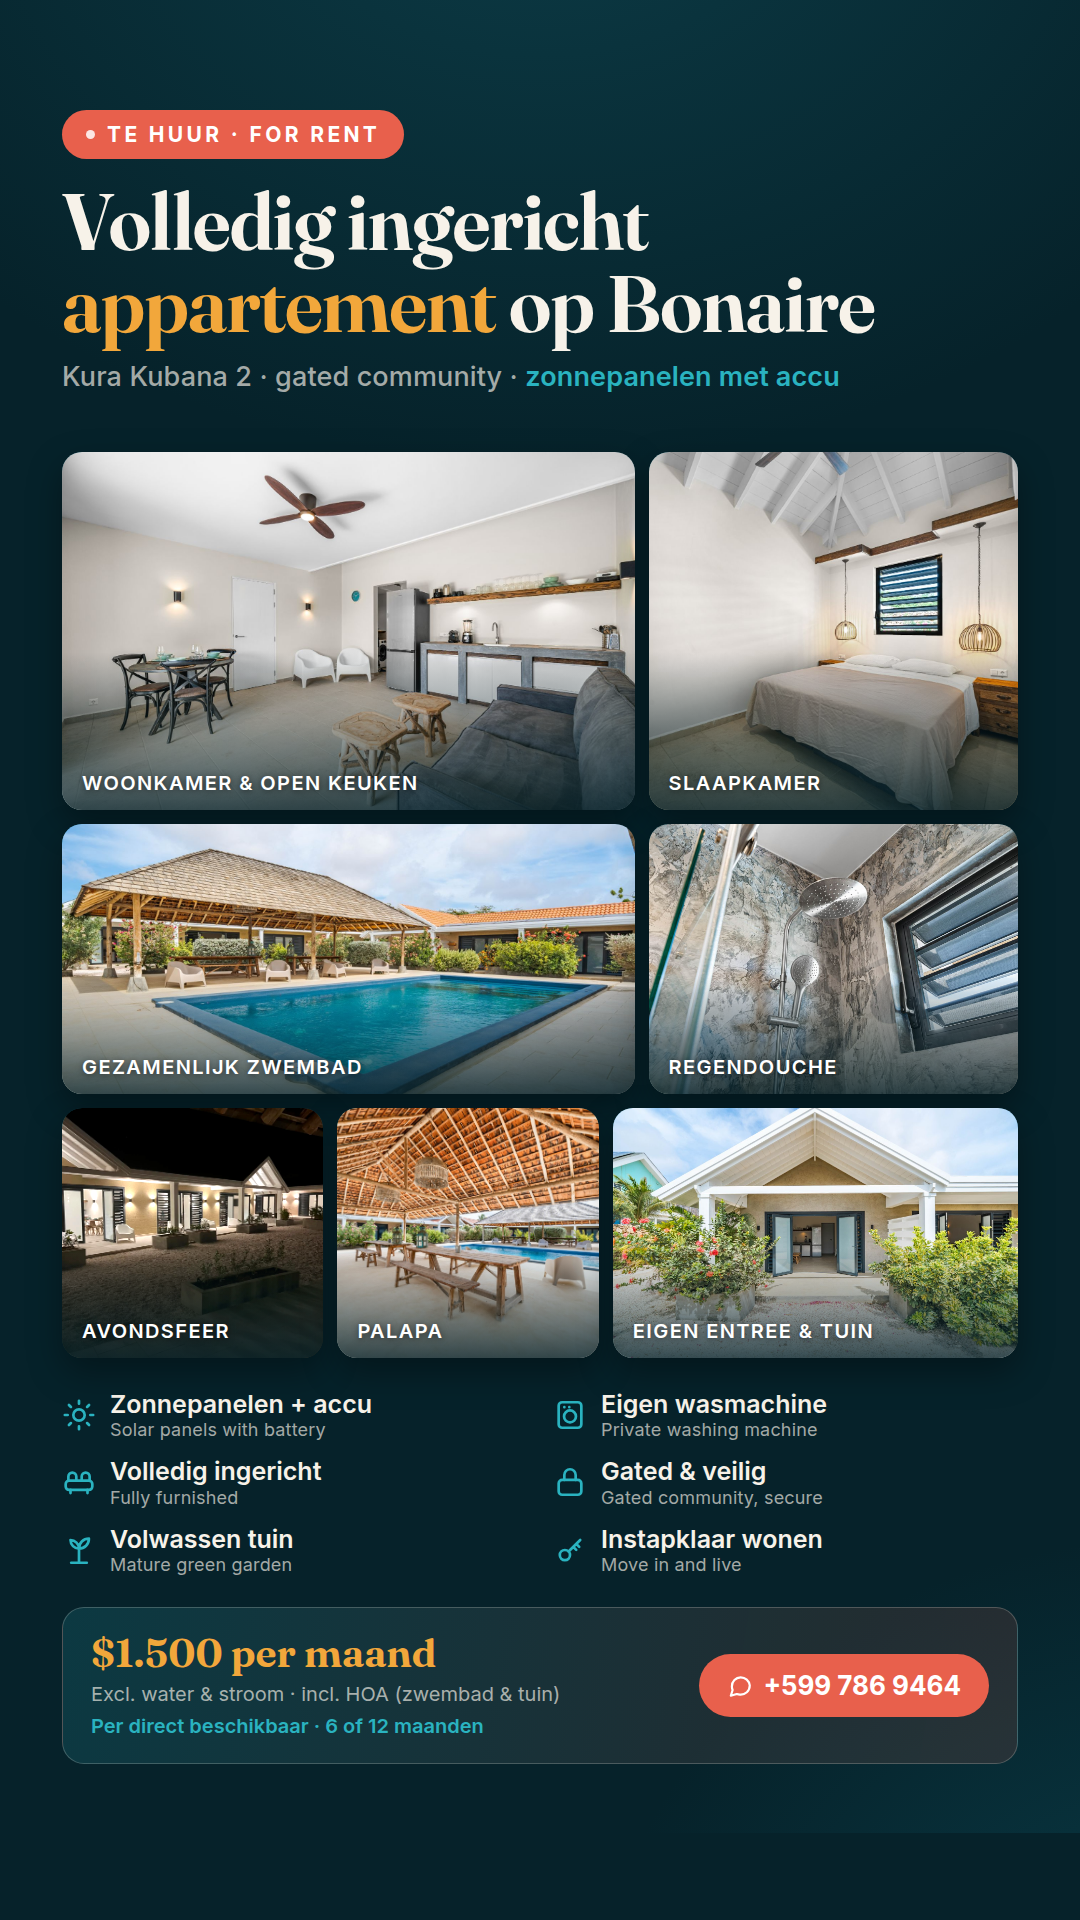
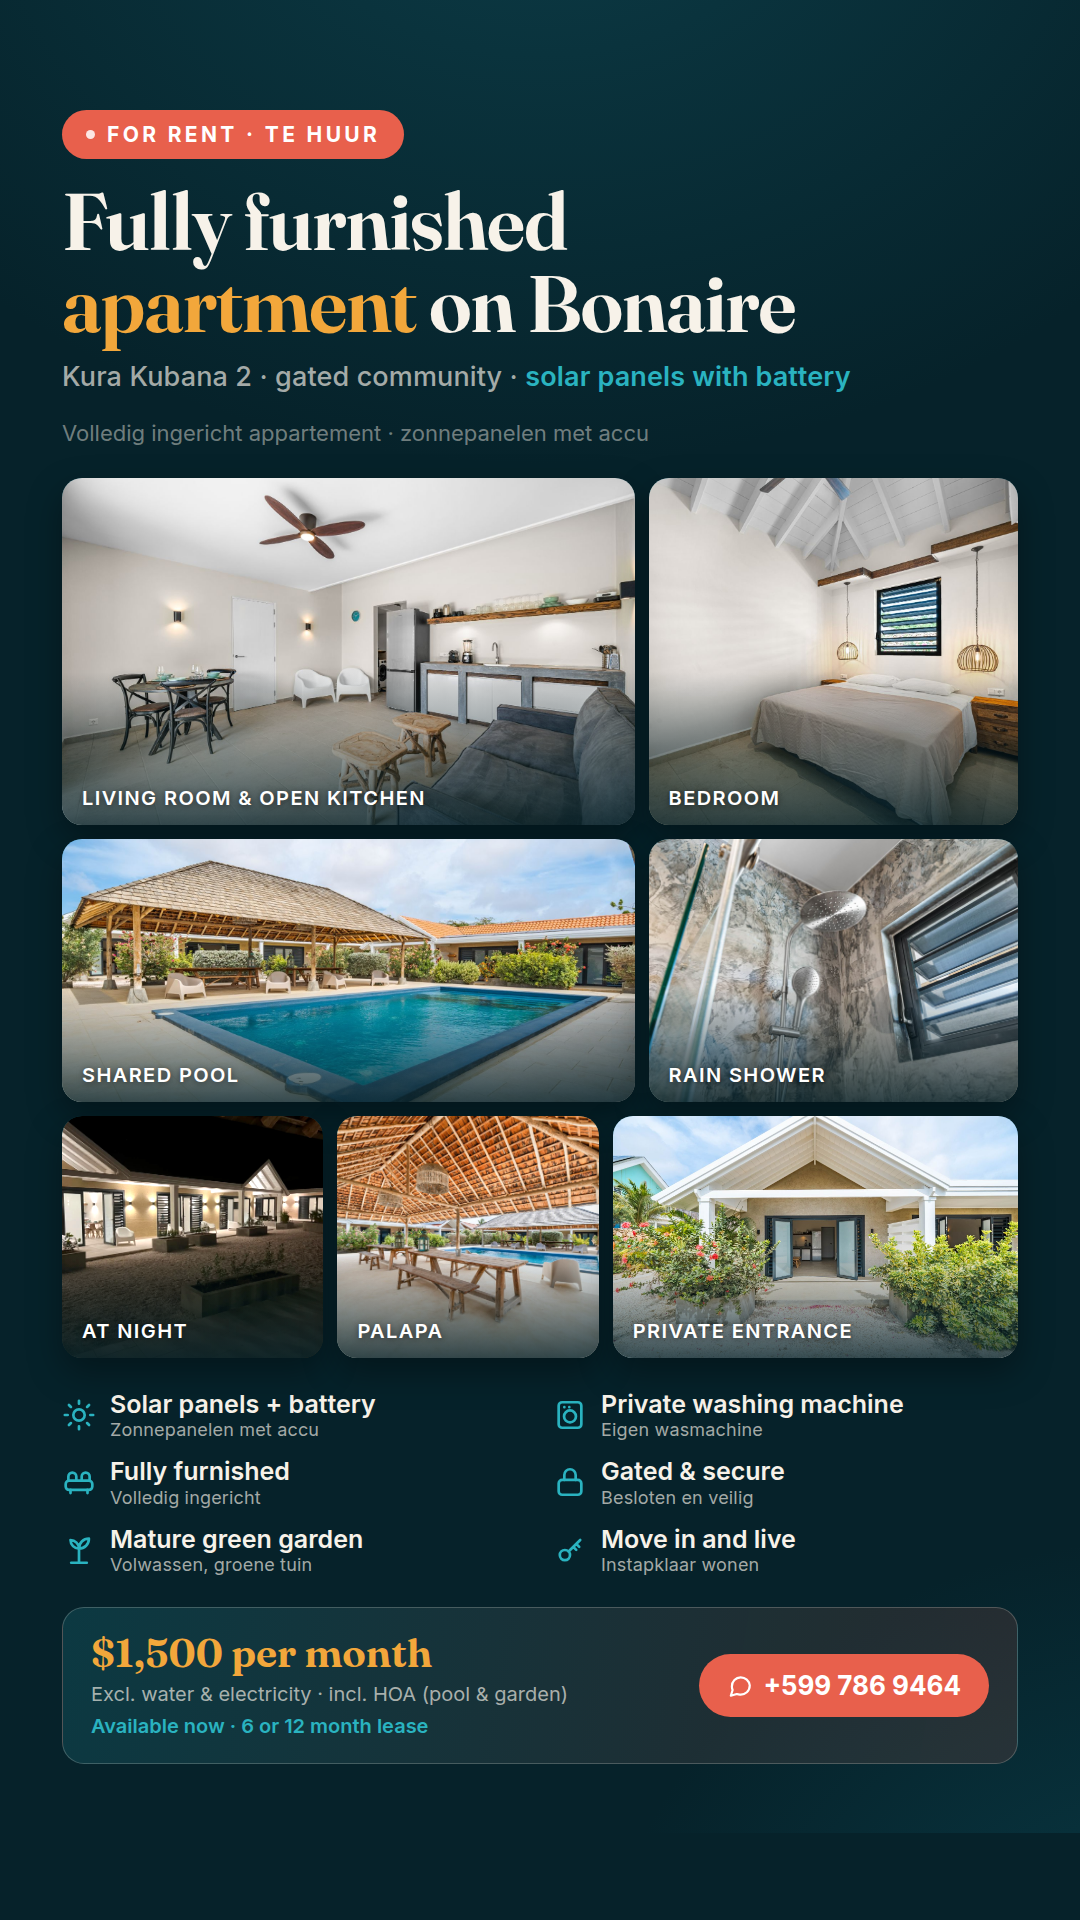
marketing: Engels als hoofdtaal, Nederlands als tweede
De doelgroep op Bonaire is voor een groot deel Engelstalig, dus die tekst
komt nu eerst; Nederlands blijft volwaardig aanwezig, een niveau kleiner.

Collage:
- kop, bijschriften bij de foto's en de prijsbalk in het Engels
- onder de Engelse subkop een Nederlandse regel in gedempt grijs
- featurelijst omgedraaid: Engels groot, Nederlands klein eronder
- bijschriften ingekort waar de Engelse tekst breder werd dan de tegel
  ("Private entrance" in plaats van de volledige regel)

Postteksten: het Engelse blok staat nu boven het Nederlandse, ook in de
korte groepsversie en in het standaard comment-antwoord. Hashtags herordend.

README: taalvolgorde vastgelegd zodat latere aanvullingen die aanhouden.

Claude-Session: https://claude.ai/code/session_01KcqzwLz4Kogusytwj4wSC2

Changed region(s): [[0.0306, 0.0625, 0.9472, 0.8438], [0.0917, 0.6875, 0.3361, 0.8438], [0.0917, 0.8438, 0.5194, 0.9062]]

diff --git a/marketing/appartement/collage.html b/marketing/appartement/collage.html
@@ -35,6 +35,7 @@
   h1 em{font-style:normal;color:var(--sun)}
   .sub{margin-top:16px;font-size:27px;font-weight:500;color:var(--soft);letter-spacing:.005em}
   .sub b{color:var(--turq);font-weight:600}
+  .sub-nl{margin:9px 0 0;font-size:22px;font-weight:400;color:rgba(247,242,233,.45)}
 
   /* ---------- photo mosaic ---------- */
   .mosaic{flex:1 1 auto;min-height:0;display:flex;flex-direction:column;gap:14px}
@@ -78,36 +79,37 @@
 <div class="page">
 
   <header>
-    <span class="eyebrow"><span class="dot"></span>Te huur · For rent</span>
-    <h1>Volledig ingericht<br><em>appartement</em> op Bonaire</h1>
-    <p class="sub">Kura Kubana 2 · gated community · <b>zonnepanelen met accu</b></p>
+    <span class="eyebrow"><span class="dot"></span>For rent · Te huur</span>
+    <h1>Fully furnished<br><em>apartment</em> on Bonaire</h1>
+    <p class="sub">Kura Kubana 2 · gated community · <b>solar panels with battery</b></p>
+    <p class="sub-nl">Volledig ingericht appartement · zonnepanelen met accu</p>
   </header>
 
   <div class="mosaic">
     <div class="row r1">
       <div class="tile wide">
         <img src="photos/p1-woonkamer-keuken.jpg" alt="Woonkamer met open keuken" style="object-position:50% 58%">
-        <span class="cap">Woonkamer &amp; open keuken</span>
+        <span class="cap">Living room &amp; open kitchen</span>
       </div>
       <div class="tile">
         <img src="photos/p6-slaapkamer.jpg" alt="Slaapkamer met tweepersoonsbed" style="object-position:68% 52%">
-        <span class="cap">Slaapkamer</span>
+        <span class="cap">Bedroom</span>
       </div>
     </div>
     <div class="row r2">
       <div class="tile wide">
         <img src="photos/p2-zwembad.jpg" alt="Gezamenlijk zwembad">
-        <span class="cap">Gezamenlijk zwembad</span>
+        <span class="cap">Shared pool</span>
       </div>
       <div class="tile">
         <img src="photos/p3-badkamer.jpg" alt="Badkamer met regendouche" style="object-position:50% 62%">
-        <span class="cap">Regendouche</span>
+        <span class="cap">Rain shower</span>
       </div>
     </div>
     <div class="row r3">
       <div class="tile">
         <img class="night" src="photos/p7-avond.jpg" alt="Verlichte binnentuin in de avond" style="object-position:50% 58%">
-        <span class="cap">Avondsfeer</span>
+        <span class="cap">At night</span>
       </div>
       <div class="tile">
         <img src="photos/p4-palapa.jpg" alt="Palapa met lange tafels bij het zwembad">
@@ -115,7 +117,7 @@
       </div>
       <div class="tile wide">
         <img src="photos/p5-entree-tuin.jpg" alt="Eigen entree met terras en groene tuin">
-        <span class="cap">Eigen entree &amp; tuin</span>
+        <span class="cap">Private entrance</span>
       </div>
     </div>
   </div>
@@ -123,35 +125,35 @@
   <div class="features">
     <div class="feat">
       <svg viewBox="0 0 24 24"><circle cx="12" cy="12" r="4"/><path d="M12 2v2M12 20v2M2 12h2M20 12h2M4.9 4.9l1.4 1.4M17.7 17.7l1.4 1.4M19.1 4.9l-1.4 1.4M6.3 17.7l-1.4 1.4"/></svg>
-      <div><span class="nl">Zonnepanelen + accu</span><span class="en">Solar panels with battery</span></div>
+      <div><span class="nl">Solar panels + battery</span><span class="en">Zonnepanelen met accu</span></div>
     </div>
     <div class="feat">
       <svg viewBox="0 0 24 24"><rect x="4" y="3" width="16" height="18" rx="2.5"/><circle cx="12" cy="13" r="4.2"/><path d="M8 6.5h.01M11.5 6.5h.01"/></svg>
-      <div><span class="nl">Eigen wasmachine</span><span class="en">Private washing machine</span></div>
+      <div><span class="nl">Private washing machine</span><span class="en">Eigen wasmachine</span></div>
     </div>
     <div class="feat">
       <svg viewBox="0 0 24 24"><path d="M4.5 11V8.2a2.8 2.8 0 0 1 5.6 0V11M13.9 11V8.2a2.8 2.8 0 0 1 5.6 0V11"/><rect x="2.6" y="11" width="18.8" height="6.6" rx="2.4"/><path d="M6 17.6v2.2M18 17.6v2.2"/></svg>
-      <div><span class="nl">Volledig ingericht</span><span class="en">Fully furnished</span></div>
+      <div><span class="nl">Fully furnished</span><span class="en">Volledig ingericht</span></div>
     </div>
     <div class="feat">
       <svg viewBox="0 0 24 24"><rect x="4" y="10.5" width="16" height="10.5" rx="2.5"/><path d="M8 10.5V7a4 4 0 0 1 8 0v3.5"/></svg>
-      <div><span class="nl">Gated &amp; veilig</span><span class="en">Gated community, secure</span></div>
+      <div><span class="nl">Gated &amp; secure</span><span class="en">Besloten en veilig</span></div>
     </div>
     <div class="feat">
       <svg viewBox="0 0 24 24"><path d="M12 21V11M12 11c0-4 3-7 7-7 0 4-3 7-7 7Zm0 0C12 7.7 9.3 5 6 5c0 3.3 2.7 6 6 6Z"/><path d="M6.5 21h11"/></svg>
-      <div><span class="nl">Volwassen tuin</span><span class="en">Mature green garden</span></div>
+      <div><span class="nl">Mature green garden</span><span class="en">Volwassen, groene tuin</span></div>
     </div>
     <div class="feat">
       <svg viewBox="0 0 24 24"><circle cx="8.4" cy="15.6" r="3.6"/><path d="M11 13.1 19.2 4.9M16.4 7.7l2.1 2.1M14.3 9.8l2.1 2.1"/></svg>
-      <div><span class="nl">Instapklaar wonen</span><span class="en">Move in and live</span></div>
+      <div><span class="nl">Move in and live</span><span class="en">Instapklaar wonen</span></div>
     </div>
   </div>
 
   <div class="cta">
     <div class="who">
-      <div class="l1">$1.500 per maand</div>
-      <div class="l2">Excl. water &amp; stroom · incl. HOA (zwembad &amp; tuin)</div>
-      <div class="l3">Per direct beschikbaar · 6 of 12 maanden</div>
+      <div class="l1">$1,500 per month</div>
+      <div class="l2">Excl. water &amp; electricity · incl. HOA (pool &amp; garden)</div>
+      <div class="l3">Available now · 6 or 12 month lease</div>
     </div>
     <div class="pill">
       <svg viewBox="0 0 24 24"><path d="M21 11.5a8.4 8.4 0 0 1-9.1 8.4c-1 0-2-.2-2.9-.5L3.5 21l1.7-5.3a8.3 8.3 0 0 1-.7-3.3A8.4 8.4 0 0 1 12.6 4 8.4 8.4 0 0 1 21 11.5Z"/></svg>

diff --git a/marketing/appartement/facebook-post.md b/marketing/appartement/facebook-post.md
@@ -1,34 +1,14 @@
-# Facebook-post — appartement te huur (langere termijn)
+# Facebook post — apartment for rent (long term) · Facebook-post appartement te huur
 
-> De post is compleet en kan zo geplaatst worden. Alleen in versie C staat nog `[naam]`, voor als je
-> je reacties met je eigen naam wilt ondertekenen.
-> Plaats `collage-9x16.png` als afbeelding en zet deze tekst in het bijschrift. Reacties met "info"
-> beantwoorden via PB werkt op Bonaire beter dan de prijs in de comments herhalen.
-
----
-
-## Versie A — Nederlands + Engels (aanbevolen, één post)
-
-🌴 **TE HUUR — volledig ingericht appartement in een gated community op Bonaire**
-
-Instappen en wonen. Geen meubels sjouwen, geen verrassingen: alles staat er al.
-
-🛋 Ruime woonkamer met open keuken
-🛏 Slaapkamer met eigen badkamer en regendouche
-🧺 Eigen wasmachine
-☀ Zonnepanelen mét accu — lage stroomkosten en gewoon licht als de rest van de wijk zonder zit
-🏊 Gezamenlijk zwembad met palapa en lange tafels
-🌳 Volwassen, groene tuin met een eigen entree en terras — 's avonds sfeervol verlicht
-🔒 Gated community — rustig en veilig
-
-Perfect voor wie voor werk of langere tijd naar Bonaire komt en meteen wil landen.
-
-📍 Kura Kubana 2, Bonaire
-💵 $1.500 per maand — excl. water en stroom, incl. HOA (onderhoud zwembad en tuin)
-📅 Per direct beschikbaar — huurperiode 6 of 12 maanden
-📞 Interesse? Stuur een PB of app +599 786 9464
+> The post is complete and ready to publish. Only version C still has `[name]` in it, in case you want to
+> sign your replies. English comes first, Dutch second — that order matches the audience on Bonaire:
+> expats, Americans and local English speakers see it first, Dutch readers find their own text right below.
+>
+> Post `collage-9x16.png` as the image and use this text as the caption.
 
 ---
+
+## Version A — English + Dutch (recommended, one post)
 
 🌴 **FOR RENT — fully furnished apartment in a gated community on Bonaire**
 
@@ -49,45 +29,67 @@ Ideal if you're moving to Bonaire for work or for a longer stay and want to sett
 📅 Available immediately — 6 or 12 month lease
 📞 Interested? Send a DM or WhatsApp +599 786 9464
 
-#Bonaire #KuraKubana #BonaireLiving #TeHuurBonaire #ForRentBonaire #Kralendijk #HurenOpBonaire #BonaireRental #ExpatBonaire #GatedCommunity #Zonnepanelen #CaribbeanLiving
+---
+
+🌴 **TE HUUR — volledig ingericht appartement in een gated community op Bonaire**
+
+Instappen en wonen. Geen meubels sjouwen, geen verrassingen: alles staat er al.
+
+🛋 Ruime woonkamer met open keuken
+🛏 Slaapkamer met eigen badkamer en regendouche
+🧺 Eigen wasmachine
+☀ Zonnepanelen mét accu — lage stroomkosten en gewoon licht als de rest van de wijk zonder zit
+🏊 Gezamenlijk zwembad met palapa en lange tafels
+🌳 Volwassen, groene tuin met een eigen entree en terras — 's avonds sfeervol verlicht
+🔒 Gated community — rustig en veilig
+
+Perfect voor wie voor werk of langere tijd naar Bonaire komt en meteen wil landen.
+
+📍 Kura Kubana 2, Bonaire
+💵 $1.500 per maand — excl. water en stroom, incl. HOA (onderhoud zwembad en tuin)
+📅 Per direct beschikbaar — huurperiode 6 of 12 maanden
+📞 Interesse? Stuur een PB of app +599 786 9464
+
+#Bonaire #KuraKubana #BonaireLiving #ForRentBonaire #TeHuurBonaire #Kralendijk #BonaireRental #ExpatBonaire #GatedCommunity #SolarPower #CaribbeanLiving
 
 ---
 
-## Versie B — korter, voor in verhuurgroepen
+## Version B — shorter, for rental groups
 
-☀ Volledig ingericht appartement te huur op Bonaire — gated community, gezamenlijk zwembad met palapa,
-volwassen tuin. Woonkamer met open keuken, slaapkamer, eigen badkamer met regendouche, eigen wasmachine
-en zonnepanelen mét accu (dus lage stroomkosten en geen gedoe bij stroomuitval). Instapklaar: je hoeft
-alleen je koffer neer te zetten.
+☀ Fully furnished apartment for rent on Bonaire — gated community, shared pool with palapa, mature garden.
+Living room with open kitchen, bedroom, private bathroom with rain shower, own washing machine and solar
+panels with battery (so low electricity bills and no trouble during outages). Move in with nothing but
+your suitcase.
 
-📍 Kura Kubana 2 · 💵 $1.500 p/m excl. water & stroom · 📅 per direct, 6 of 12 mnd · 📞 PB of app +599 786 9464
+📍 Kura Kubana 2 · 💵 $1,500 p/m excl. water & electricity · 📅 available now, 6 or 12 months
+📞 DM or WhatsApp +599 786 9464
 
-🇬🇧 Fully furnished apartment for rent on Bonaire — gated community, shared pool, mature garden. Living room
-with open kitchen, bedroom, private bathroom, own washing machine and solar panels with battery. Just bring
-your suitcase. $1,500 per month excl. water and electricity. DM for details.
+🇳🇱 Volledig ingericht appartement te huur op Bonaire — gated community, gezamenlijk zwembad, volwassen
+tuin. Woonkamer met open keuken, slaapkamer, eigen badkamer, eigen wasmachine en zonnepanelen mét accu.
+$1.500 per maand excl. water en stroom, per direct beschikbaar. PB of app +599 786 9464.
 
-#Bonaire #KuraKubana #TeHuur #ForRent #Kralendijk #BonaireRental
+#Bonaire #KuraKubana #ForRent #TeHuur #Kralendijk #BonaireRental
 
 ---
 
-## Versie C — eerste reactie / comment-antwoord
+## Version C — first reply / comment answer
+
+Thanks for your interest! 🌴 The rent is $1,500 per month, excl. water and electricity, incl. HOA (pool and
+garden maintenance). Send me a DM and I'll share the exact location and arrange a viewing. — [name]
 
 Dank voor je reactie! 🌴 De huur is $1.500 per maand, excl. water en stroom en incl. HOA (onderhoud van
 het zwembad en de tuin). Stuur je even een PB, dan stuur ik de exacte locatie en plannen we een bezichtiging
 in. — [naam]
 
-Thanks for your interest! 🌴 The rent is $1,500 per month, excl. water and electricity, incl. HOA (pool and
-garden maintenance). Send me a DM and I'll share the exact location and arrange a viewing. — [name]
-
 ---
 
-## Plaatsingstips
+## Posting tips
 
-- **Beste momenten:** doordeweeks 12:00–13:00 of 19:00–21:00 (Bonaire-tijd).
-- **Groepen:** plaats hem ook in "Bonaire Te Huur / For Rent", "Expats on Bonaire" en "Bonaire Vraag & Aanbod".
-  Lees per groep even de regels — sommige willen de prijs verplicht in de post.
-- **De prijs staat in de post én in de collage.** Dat scheelt tientallen "wat kost het?"-reacties en
-  levert serieuzere huurders op. Noem er meteen bij wat er níet bij zit (water en stroom), dan krijg je
-  achteraf geen discussie.
-- **Zonnepanelen + accu is je sterkste troef** op Bonaire: noem het hoog in de tekst, niet onderaan.
-- Reageer binnen een uur op de eerste reacties — Facebook duwt een post met snelle interactie verder.
+- **Best times:** weekdays 12:00–13:00 or 19:00–21:00 (Bonaire time).
+- **Groups:** also post it in "Bonaire Te Huur / For Rent", "Expats on Bonaire" and "Bonaire Vraag & Aanbod".
+  Check each group's rules — some require the price in the post itself.
+- **The price is in the post and in the collage.** That saves dozens of "how much?" comments and brings in
+  more serious tenants. Naming what is *not* included (water and electricity) up front prevents discussion later.
+- **Solar panels with a battery are your strongest card** on Bonaire — that's why they sit high in the text
+  and in the headline, not at the bottom of the list.
+- Reply to the first comments within the hour — Facebook pushes a post with quick interaction further.

diff --git a/marketing/appartement/README.md b/marketing/appartement/README.md
@@ -31,6 +31,13 @@ niet dichtvalt op een telefoonscherm.
 
 Staande foto's horen in een van de drie kleine vakken onderin; liggende foto's in de brede vakken.
 
+## Taalvolgorde
+
+Engels is de hoofdtaal, Nederlands de tweede. In de collage betekent dat: kop, bijschriften bij de foto's,
+de bovenste regel van elke feature en de prijsbalk in het Engels; de Nederlandse tekst staat eronder in
+kleiner, gedempt grijs (de regel onder de kop en de tweede regel van elke feature). In `facebook-post.md`
+staat het Engelse blok boven het Nederlandse. Houd die volgorde aan als je iets toevoegt.
+
 ## Aanpassen
 
 - **Telefoonnummer / CTA:** onderaan `collage.html`, zoek op `[telefoonnummer]`.
